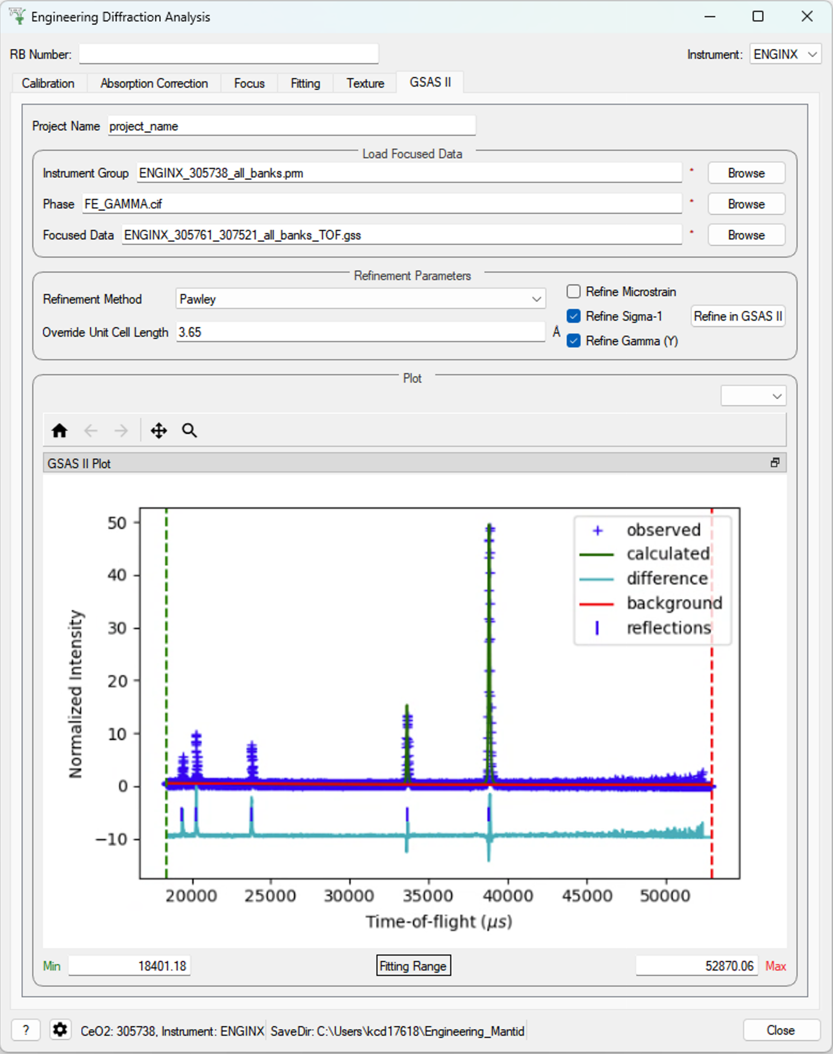
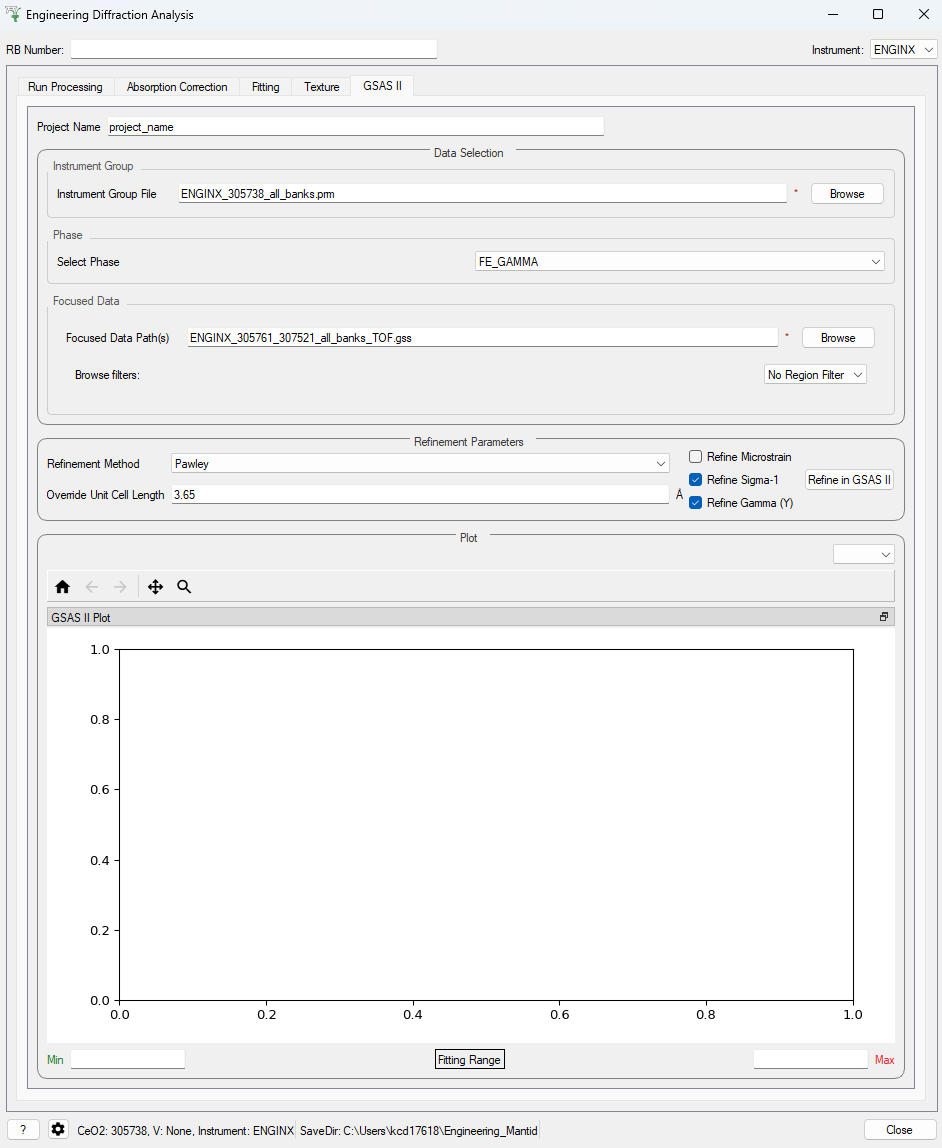
update docs

Changed region(s): [[0.0, 0.0, 1.0, 1.0], [0.0936, 0.8501, 0.1561, 0.8805]]

diff --git a/dev-docs/source/Testing/EngineeringDiffraction/EngineeringDiffractionTestGuide.rst b/dev-docs/source/Testing/EngineeringDiffraction/EngineeringDiffractionTestGuide.rst
@@ -423,14 +423,10 @@ Please test this on IDAaaS: an ENGINX instance should have MantidWorkbenchNightl
 
 4. In the ``Focus`` group, enter ``Sample Run #`` ``305761`` and click the ``Focus`` button.
 
-.. image:: figure:: /../../../../../docs/source/images/6_5_release/Diffraction/GSASII_tab.png
-    :align: center
-    :width: 600px
-
 5. Change to the ``GSASII`` tab. The ``Instrument Group`` path should be pre-filled to a `.prm` file output by the calibration
    and the ``Focused Data`` path should be pre-filled to the `.gss` file output from the ``Focus`` group.
 
-6. For the ``Phase`` filepath, browse to ``MANTID_INSTALL_DIRECTORY/scripts/Engineering/ENGINX/phase_info/FE_GAMMA.cif``. For the ``Project Name`` at the top, enter a string of your choice.
+6. For the ``Phase`` filepath, select ``FE_GAMMA`` from the list. For the ``Project Name`` at the top, enter a string of your choice.
 
 7. Now, click ``Refine in GSAS II``. After a few seconds, the output fit should be plotted. In the top right of the plot widget, the refined spectrum can be changed using the combo-box.
 

diff --git a/docs/source/interfaces/diffraction/Engineering Diffraction.rst b/docs/source/interfaces/diffraction/Engineering Diffraction.rst
@@ -477,8 +477,10 @@ Instrument Group
     each data file)
 
 Phase
-    Path to the ``.cif`` file defining the initial crystal structure (more than one path can be supplied, the lattice
-    parameters will be overridden for the first phase only).
+    A list of default ``.cif`` files are provided for defining the initial crystal structure. The content of these files
+    can be inspected within ``MANTID_INSTALL_DIRECTORY/scripts/Engineering/ENGINX/phase_info``. The final option in the
+    list, ``Custom`` will allow you to provide a path to a ``.cif`` file of your choosing (more than one path can be
+    supplied, the lattice parameters will be overridden for the first phase only).
 
 Focused Data
     Path to focused ``.gss`` files (note it should have the same number of spectra as in ``.prm`` file and contains multiple
